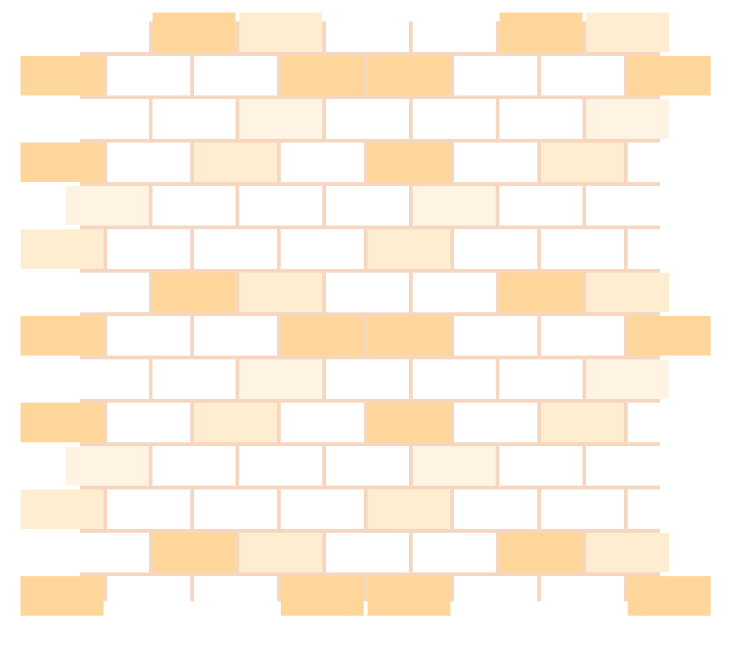
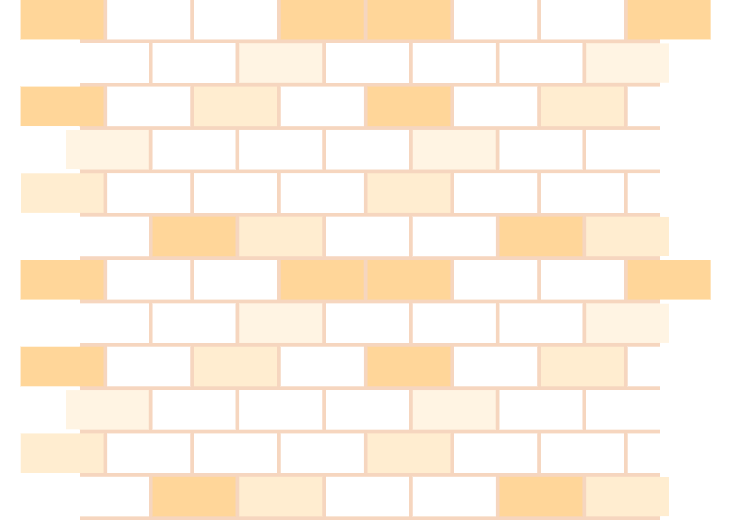
Hoofdpagina update CSS en HTML

diff --git a/Includes/CSS/home.css b/Includes/CSS/home.css
@@ -2,18 +2,44 @@
     margin: 0;
 }
 
+body {
+    background: var(--color3);
+    background-image: url("../images/tiles.png");
+    background-repeat: repeat-y;
+    background-position: center;
+    background-attachment: fixed;
+    background-size: 125%;
+}
+
 header {
     background: var(--color1);
     padding: 2vh 0;
+    text-align: center;
+    border-bottom: 5px solid #ABCFAE;
 }
 
-.collection {
+.border {
+    text-align: center;
+    padding: 2vh;
+    background-image: url("../images/noteplank.png");
+    background-size: 60%;
+    background-position: center;
+    background-repeat: no-repeat;
+}
+
+#RecentBagesSec {
+    background: #E9CDA2;
+    border-bottom: 5px solid black;
+    padding: 0 0 10vh 0;
+}
+
+#FavoritePlantsSec {
     width: 75%;
     margin: 0 auto;
 }
 
 #shelfs img {
-    margin-top: 5vh;
+    margin-top: 10vh;
 }
 
 img {

diff --git a/index.php b/index.php
@@ -1,11 +1,6 @@
 <?php
 session_start();
 
-if (isset($_SESSION["Login"])) {
-    $first_name = $_SESSION['first_name'];
-} else {
-    $first_name = "undefined";
-}
 ?>
 
 <!DOCTYPE html>
@@ -18,25 +13,28 @@ if (isset($_SESSION["Login"])) {
     <title>Hoofdpagina</title>
 </head>
 <body>
-    <header> <!--remove later on to put into a seperate file-->
-
-    </header>
-    <main>
-        <section id="RecentBagesSec">
+<header>
+    <h1>Home</h1>
+</header>
+<main>
+    <section id="RecentBagesSec">
+        <div class="border">
+            <h2>Recente badges</h2>
+        </div>
         <!--Span or so for the 'title'-->
         <!--div (for every badge)-->
         <!--link to the badge page and "opening" the right badge-->
         <!--badge image-->
-        </section>
-        <section id="FavoritePlantsSec">
-            <div id="shelfs">
-                <img src="Includes/images/Shelf.png" alt="shelf">
-                <img src="Includes/images/Shelf.png" alt="shelf">
-            </div>
-        </section>
-        <section id="PlantStatusSec">
-<!--div-->
-        </section>
-    </main>
+        <!--div-->
+    </section>
+    <section id="FavoritePlantsSec">
+        <div id="shelfs">
+            <img src="Includes/images/shelf.png" alt="plank">
+            <img src="Includes/images/shelf.png" alt="plank">
+        </div>
+    </section>
+    <section id="PlantStatusSec">
+    </section>
+</main>
 </body>
 </html>
